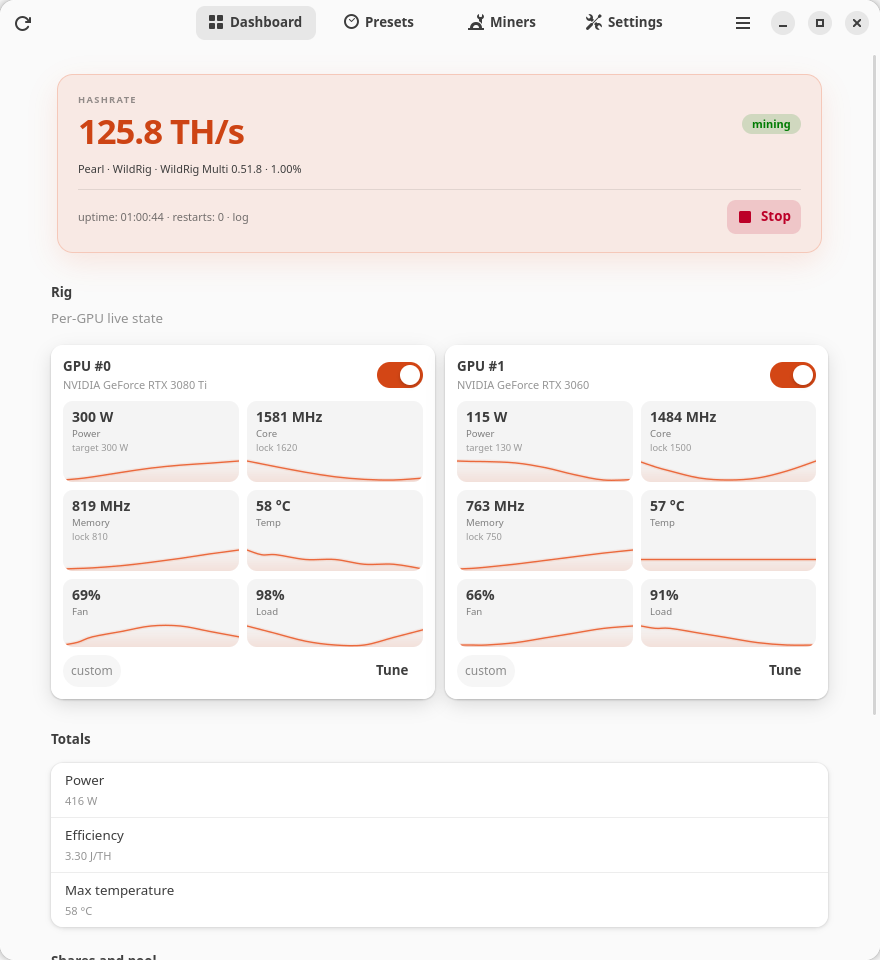
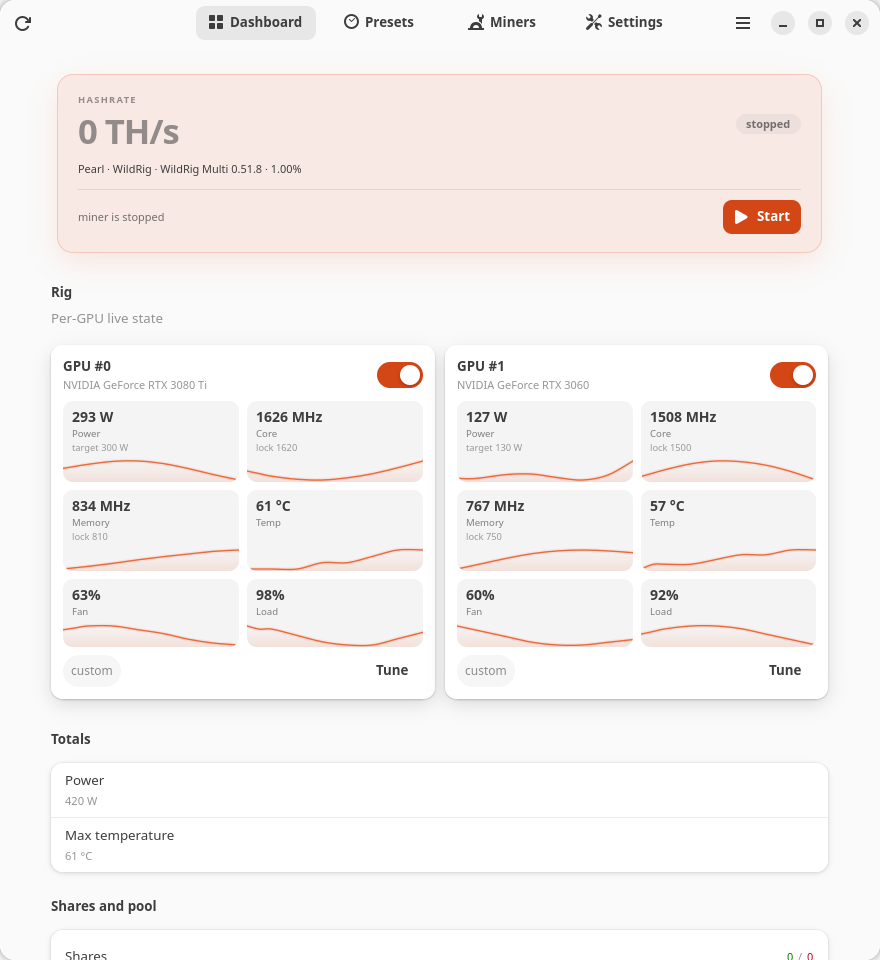
feat(ui): remove the efficiency row from dashboard totals

diff --git a/crates/cli/src/gui.rs b/crates/cli/src/gui.rs
@@ -261,7 +261,6 @@ struct App {
     hero_meta: gtk::Label,
     pill: gtk::Label,
     total_power: adw::ActionRow,
-    total_efficiency: adw::ActionRow,
     total_temp: adw::ActionRow,
     gpu_host: gtk::Box,
     gpu_sig: RefCell<String>,
@@ -725,19 +724,11 @@ fn build_ui(app: &adw::Application) {
         .title(tr("Power", "Мощность"))
         .subtitle("—")
         .build();
-    // The status document has carried J/TH since the first contract version;
-    // a mining rig is judged on watts per terahash, so it belongs next to the
-    // watts it is derived from.
-    let total_efficiency = adw::ActionRow::builder()
-        .title(tr("Efficiency", "Эффективность"))
-        .subtitle("—")
-        .build();
     let total_temp = adw::ActionRow::builder()
         .title(tr("Max temperature", "Макс. температура"))
         .subtitle("—")
         .build();
     totals_group.add(&total_power);
-    totals_group.add(&total_efficiency);
     totals_group.add(&total_temp);
     dashboard_box.append(&totals_group);
 
@@ -821,7 +812,6 @@ fn build_ui(app: &adw::Application) {
         hero_meta,
         pill,
         total_power,
-        total_efficiency,
         total_temp,
         gpu_host,
         gpu_sig: RefCell::new(String::new()),
@@ -5376,27 +5366,6 @@ fn apply_status(app: &Rc<App>, status: Status) {
         ),
         &power_lines,
     )));
-    let efficiency = status.total.efficiency_j_per_th;
-    // Keep the unit in the placeholder: a bare dash next to "— W" and "— °C"
-    // reads as a broken row.
-    app.total_efficiency.set_subtitle(&format!(
-        "{} J/TH",
-        efficiency
-            .map(|v| format!("{v:.2}"))
-            .unwrap_or_else(|| "—".into())
-    ));
-    let efficiency_tip = if efficiency.is_some() {
-        tr(
-            "Rig power divided by the current hashrate (joules per TH/s).",
-            "Мощность рига, делённая на текущий хешрейт (джоули на TH/s).",
-        )
-    } else {
-        tr(
-            "Needs a running miner that reports a hashrate.",
-            "Нужен запущенный майнер, который сообщает хешрейт.",
-        )
-    };
-    app.total_efficiency.set_tooltip_text(Some(&efficiency_tip));
     app.total_temp.set_subtitle(&format!(
         "{} °C",
         status

diff --git a/docs/design.ru.md b/docs/design.ru.md
@@ -202,12 +202,12 @@ libadwaita пропустить свой stylesheet и ломает отступ
   карточку на всю ширину с сеткой 3×2; при 2+ картах карточки складываются в
   wrap-контейнер и делят строку поровну (минимум 240 px). Частоты ядра и памяти
   подписаны раздельно.
-- Итоги: питание рига, эффективность (J/TH), максимальная температура,
-  принятые/отклонённые шары, баланс пула, настроенный адрес пула с его комиссией
-  и предупреждения. Питание суммирует `power.draw` по всем найденным картам
-  (выключенная в профиле карта тоже считается — она всё равно потребляет),
-  температура — показание самой горячей карты, эффективность — питание ÷
-  хешрейт; пока хешрейта нет, она пуста. У строк питания и температуры есть
+- Итоги: питание рига, максимальная температура, принятые/отклонённые шары,
+  баланс пула, настроенный адрес пула с его комиссией и предупреждения. Питание
+  суммирует `power.draw` по всем найденным картам (выключенная в профиле карта
+  тоже считается — она всё равно потребляет), температура — показание самой
+  горячей карты. J/TH остаётся в JSON статуса для агентов, но строку
+  эффективности дашборд пока не показывает. У строк питания и температуры есть
   подсказка со значением по каждой карте, так что итог на двух картах можно
   проверить, не открывая JSON.
 - В остановленном состоянии — **числовые заглушки** (`0 TH/s`, `0.000 PRL` или

diff --git a/docs/user-guide.ru.md b/docs/user-guide.ru.md
@@ -63,12 +63,10 @@ English: [user-guide.md](user-guide.md).
   плитки. Каждый «пузырь» заканчивается спарклайном за последние пять минут; он
   наполняется, пока открыто окно (наведение показывает минимум и максимум за
   этот интервал). Кнопка **Настроить** открывает диалог карты.
-- Ниже: питание рига, эффективность (J/TH), максимальная температура,
-  принятые/отклонённые шары, баланс пула, настроенный адрес пула с его комиссией
-  и предупреждения. Питание — сумма `power.draw` по всем найденным картам,
-  включая выключенные в профиле; эффективность — это питание, делённое на
-  текущий хешрейт, и она пуста, пока майнер не сообщил хешрейт. Наведение на
-  строку итогов показывает значения по каждой карте.
+- Ниже: питание рига, максимальная температура, принятые/отклонённые шары,
+  баланс пула, настроенный адрес пула с его комиссией и предупреждения.
+  Питание — сумма `power.draw` по всем найденным картам, включая выключенные в
+  профиле. Наведение на строку итогов показывает значения по каждой карте.
 - В остановленном состоянии хешрейт и баланс показывают числовые заглушки, а
   строка пула всё равно называет настроенный endpoint.
 - Кнопка **Запустить** в hero-карточке дашборда сначала применяет черновик.

diff --git a/docs/design.md b/docs/design.md
@@ -200,14 +200,13 @@ Every coloured value has a word next to it (“installed”, “not installed”
   the daemon status. A one-GPU rig uses a single full-width card with a 3×2
   bubble grid; 2+ cards go into a wrap box and split the row evenly (240 px
   minimum per card). Core and memory clocks are labelled separately.
-- Aggregate rows: rig power, efficiency (J/TH), max temperature, accepted and
-  rejected shares, pool balance, the configured pool endpoint with its fee, and
-  warnings. Power sums `power.draw` over every detected card (a card switched
-  off in the profile still counts, since it still draws), the temperature is the
-  hottest card's reading, and efficiency is power ÷ hashrate, empty until the
-  miner reports one. Both the power and the temperature row carry a tooltip with
-  one line per card, so a two-GPU aggregate can be checked without opening the
-  JSON.
+- Aggregate rows: rig power, max temperature, accepted and rejected shares,
+  pool balance, the configured pool endpoint with its fee, and warnings. Power
+  sums `power.draw` over every detected card (a card switched off in the profile
+  still counts, since it still draws) and the temperature is the hottest card's
+  reading. Both rows carry a tooltip with one line per card, so a two-GPU
+  aggregate can be checked without opening the JSON. J/TH stays in the status
+  JSON for agents, but the dashboard does not show an efficiency row for now.
 - When stopped, show **numeric placeholders** (`0 TH/s`, `0.000 PRL` or `0 PRL`
   without a wallet) and still name the configured pool endpoint. No lone dashes
   as placeholders.

diff --git a/docs/user-guide.md b/docs/user-guide.md
@@ -63,12 +63,11 @@ the error is shown.
   last five minutes; it fills while the window is open (hover it for the
   observed minimum and maximum). Click **Tune** to edit its power limit and
   clock locks.
-- Below the cards: rig power, efficiency (J/TH), maximum temperature,
-  accepted/rejected shares, pool balance, the configured pool endpoint with its
-  fee, and warnings. Power is `power.draw` summed over every detected card,
-  including the ones switched off in the profile; efficiency is that power
-  divided by the current hashrate and stays empty until the miner reports one.
-  Hover a totals row to see the per-card values behind the number.
+- Below the cards: rig power, maximum temperature, accepted/rejected shares,
+  pool balance, the configured pool endpoint with its fee, and warnings. Power
+  is `power.draw` summed over every detected card, including the ones switched
+  off in the profile. Hover a totals row to see the per-card values behind the
+  number.
 - When the miner is stopped, hashrate and balance show numeric placeholders and
   the pool row still names the configured endpoint.
 - **Start** in the dashboard hero card applies your edited draft before

diff --git a/README.ru.md b/README.ru.md
@@ -27,8 +27,8 @@ Trommel — пульт управления NVIDIA-ригом на GTK4/libadwai
 ## Возможности
 
 - **Мульти-GPU дашборд** — температура, мощность, вентилятор, частоты и загрузка
-  каждой карты; мощность рига, эффективность Дж/ТХ и температура самой горячей
-  карты, с разбивкой по картам в подсказке.
+  каждой карты; мощность рига и температура самой горячей карты, с разбивкой по
+  картам в подсказке.
 - **Пресеты** — монета/алгоритм (Pearl/pearlhash в текущем каталоге), пул,
   кошелёк, воркер, версия майнера и настройки майнера в одном месте;
   настройки GPU редактируются в «Настройках», поэтому переключение не требует

diff --git a/README.md b/README.md
@@ -27,8 +27,8 @@ arguments are hidden until you turn them on.
 ## Features
 
 - **Multi-GPU dashboard** — per-card temperature, power, fan, clocks and
-  utilization; rig power, J/TH efficiency and the hottest card's temperature
-  for the whole rig, each with a per-card breakdown in its tooltip.
+  utilization; rig power and the hottest card's temperature for the whole rig,
+  each with a per-card breakdown in its tooltip.
 - **Presets** — bundle the coin/algorithm (Pearl/pearlhash in the current
   catalogue), pool, wallet, worker, miner version and miner-specific options.
   GPU settings are edited in Settings, so switching presets does not re-enter

diff --git a/CHANGELOG.md b/CHANGELOG.md
@@ -5,6 +5,12 @@ Changelog; versions use SemVer.
 
 ## [Unreleased]
 
+### Removed
+
+- **The dashboard Efficiency row.** The J/TH value is still computed and
+  published in the status JSON for agents and diagnostics, but the Totals group
+  no longer shows it.
+
 ## [0.4.5] - 2026-10-29
 
 ### Added
